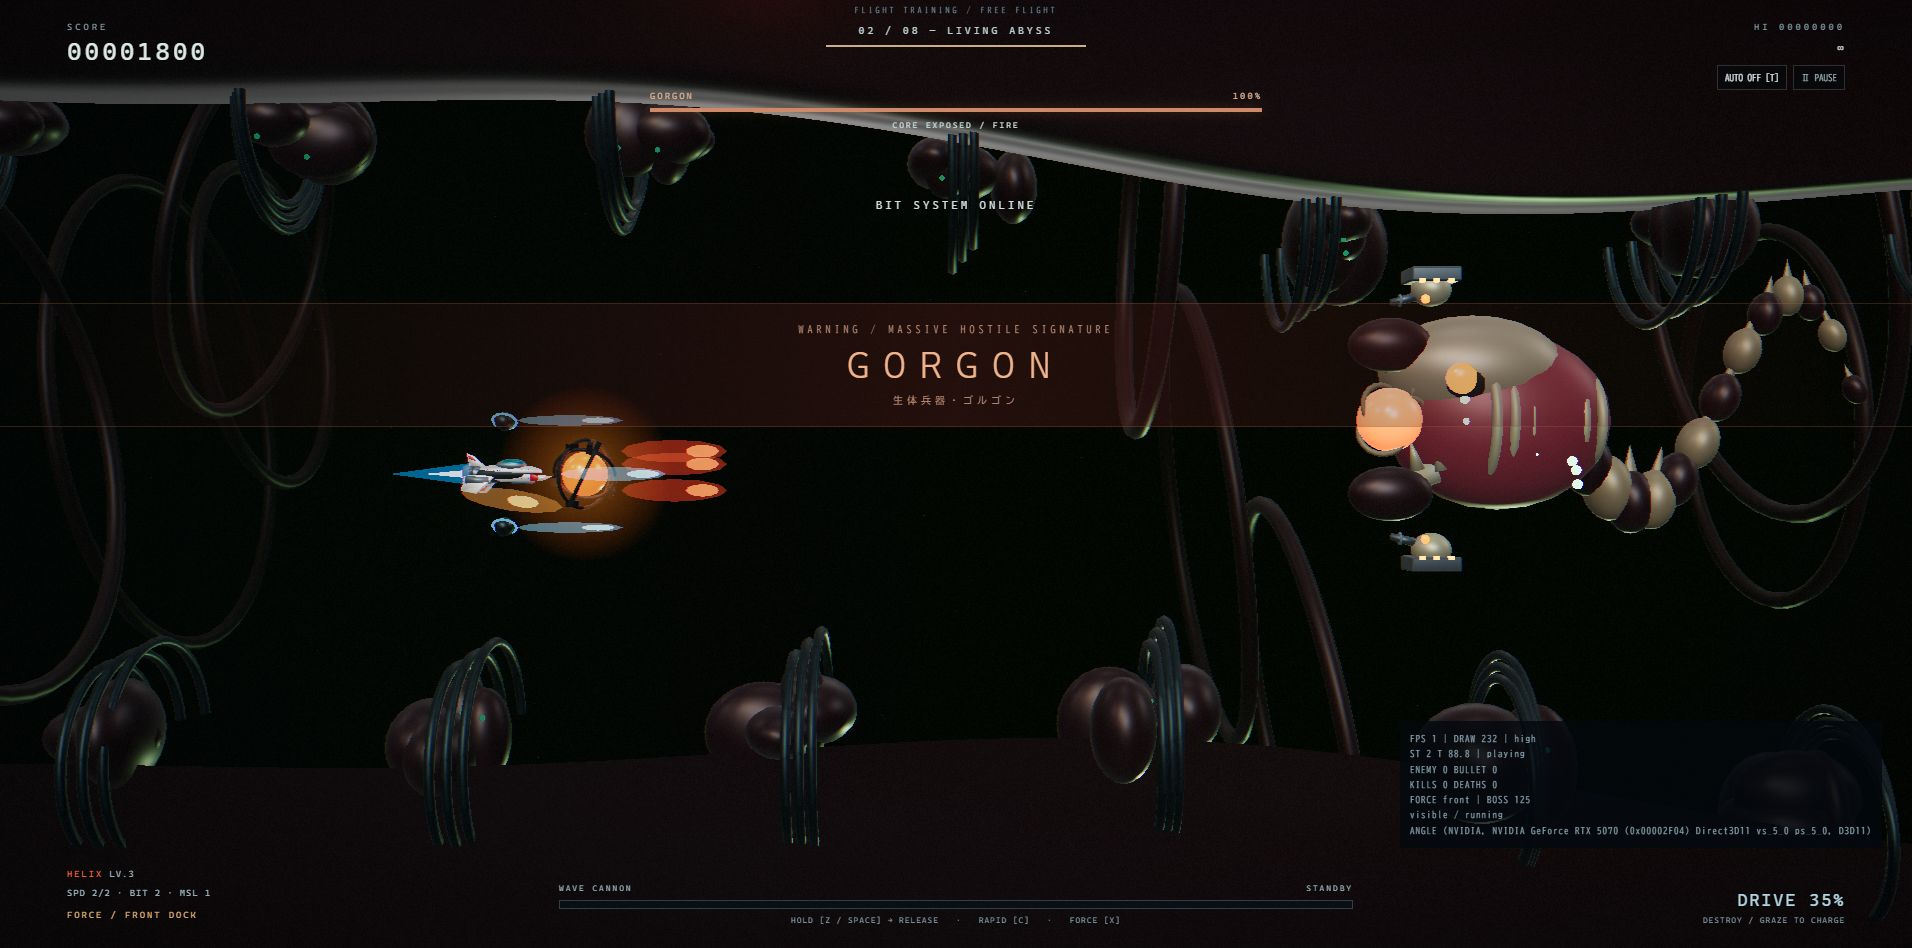
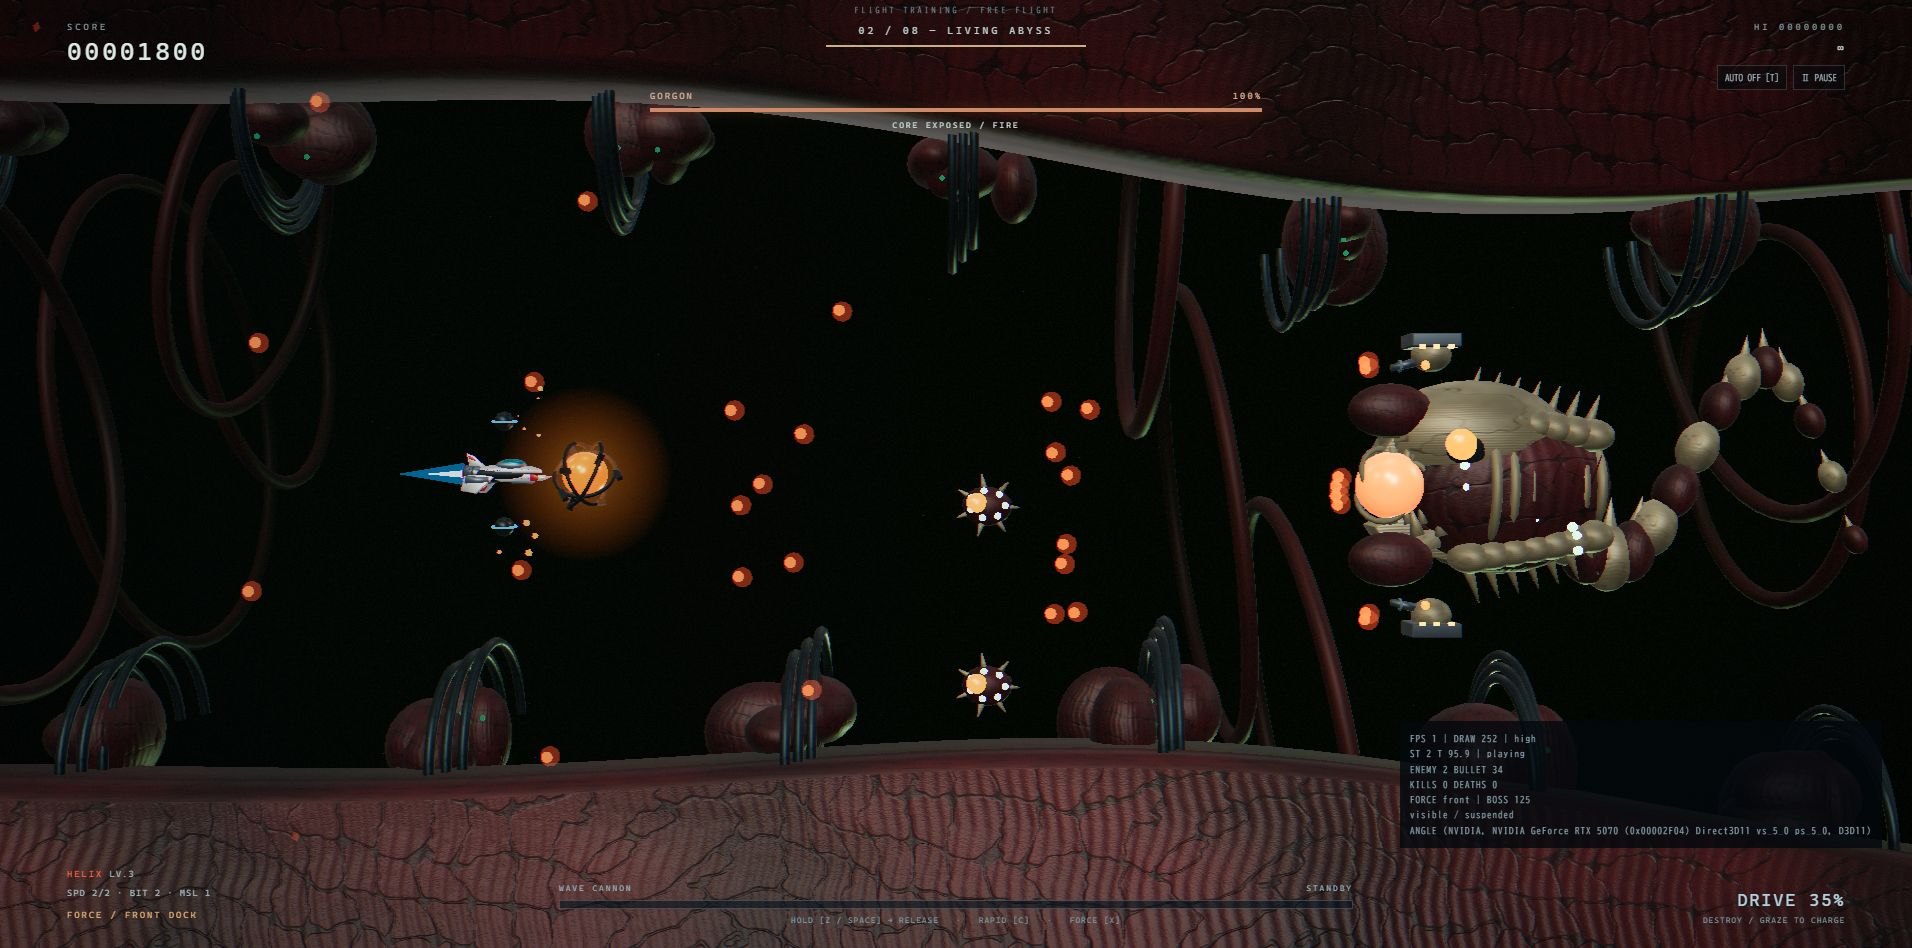
Document verified live deployment, audio export and final visuals [skip ci]

diff --git a/docs/VALIDATION.md b/docs/VALIDATION.md
@@ -14,6 +14,11 @@
 - ブラウザー表示で見つかった発光過多、インスタンス描画の弾色、フォーカス中のボタン配色を修正。
 - Edgeで画質・音源の切替、操作説明、11曲のサウンドアーカイブの表示を確認。
 - サウンドアーカイブから32秒・44.1kHz・ステレオWAVを実際に保存し、独立したPythonのwave/struct処理で形式と非無音を検証。
+- WAVの最大振幅は0.27393、RMSは0.03547、クリッピングしたサンプルは0件。
+- 筋繊維・骨・金属の色テクスチャとタンジェント法線をBlenderで生成してGLBへ埋め込み。最終GLBは8,117,900バイト。外部画像参照がないことと法線マップを検証。
+- GitHub Actionsでテスト・ビルド・GitHub Pages公開に成功：[実行記録](https://github.com/yawakihara/R-TYPE/actions/runs/41147153351)。
+- [公開サイト](https://yawakihara.github.io/R-TYPE/)のHTTP 200、ゲームJSの配信、公開GLBとローカルGLBのSHA-256一致を確認。
+- 公開版をEdgeで開き、タイトル → 難易度選択 → 発進 → ポーズ → 再開 → タイトル復帰を実操作で確認。
 
 ## 制約・未確認
 
